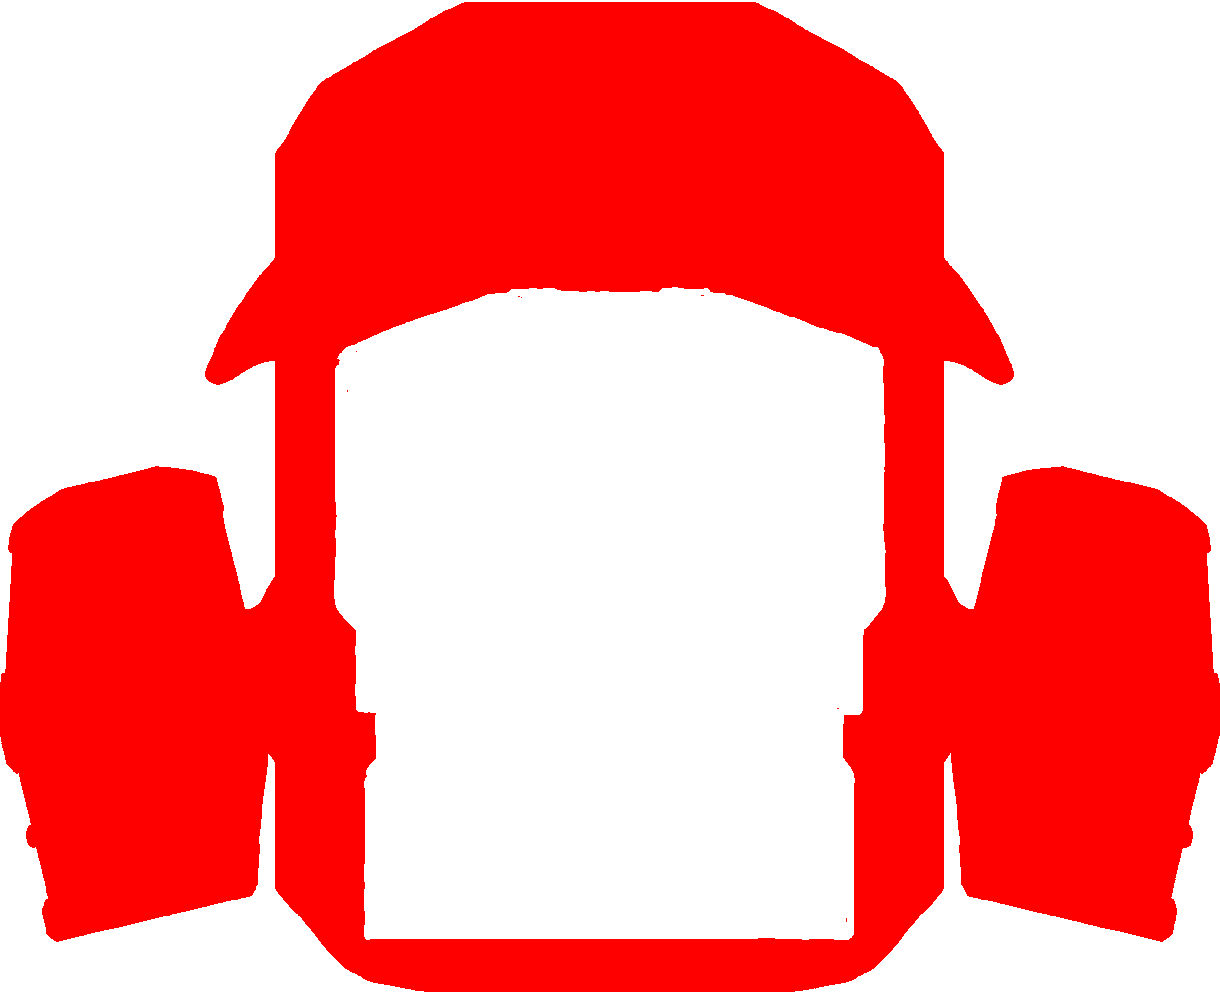
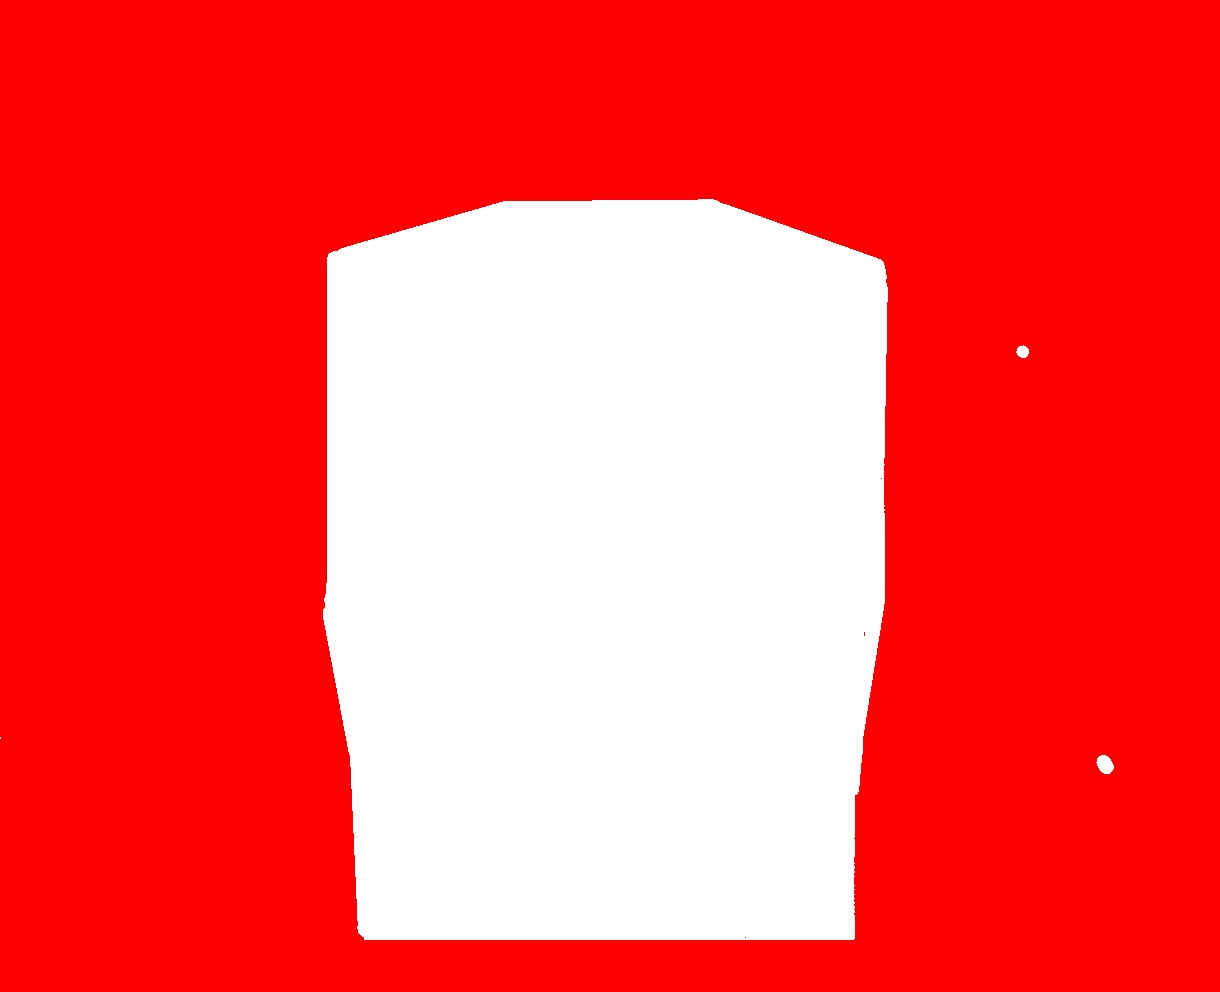
collisionmask split

diff --git a/src/main/java/team5/amongus/components/Lobby.tsx b/src/main/java/team5/amongus/components/Lobby.tsx
@@ -3,7 +3,7 @@ import Player from './interfaces/Player';
 import PlayerSprite from './PlayerSprite';
 import Space from './Space';
 import styles from '../../amongus/lobby.module.css';
-import LobbyBG_withTransparentGround from '../../../../resources/LobbyBG_withTransparentGround.png';
+import LobbyBG_withTransparentGround from '../../../../resources/LobbyBG_borders.png';
 import DebugCollisionMask from '../../../../resources/debug_collision_mask.png'; // Path to your debug collision mask image
 
 interface Props {

diff --git a/src/main/java/team5/amongus/model/CollisionMask.java b/src/main/java/team5/amongus/model/CollisionMask.java
@@ -1,93 +1,45 @@
 package team5.amongus.model;
 
-import javax.imageio.ImageIO;
 import java.awt.*;
 import java.awt.image.BufferedImage;
-import java.io.IOException;
-import java.io.InputStream;
-import java.net.URL;
 
 public class CollisionMask {
-    private boolean[][] mask;
-    private int imageWidth;
-    private int imageHeight;
+    private final boolean[][] mask;
+    private final int imageWidth;
+    private final int imageHeight;
 
-    public CollisionMask(String imageUrl) {
-        loadImage(imageUrl);
-    }
-
-    public CollisionMask(int width, int height, byte[] mask) {
+    public CollisionMask(int width, int height, boolean[][] mask) {
         this.imageWidth = width;
         this.imageHeight = height;
-        this.mask = new boolean[height][width];
-        System.out.println("CollisionMask length " + mask.length);
-
-        for (int i = 0; i < mask.length; i++) {
-            int x = i % width;
-            int y = i / width;
-            this.mask[y][x] = mask[i] == 1;
-        }
+        this.mask = mask;
     }
 
-    public boolean getCollidesWithBorder(int x, int y){
-        if(mask[x][y]){
-            return true;
-        } else{
-            return false;
-        }
-    }
-
-    private void loadImage(String imageUrl) {
-        try {
-            BufferedImage image = ImageIO.read(new URL(imageUrl));
-            imageWidth = image.getWidth();
-            imageHeight = image.getHeight();
-            mask = createCollisionMask(image);
-        } catch (IOException e) {
-            e.printStackTrace();
-        }
-    }
-
-    private boolean[][] createCollisionMask(BufferedImage image) {
-        int width = image.getWidth();
-        int height = image.getHeight();
-        boolean[][] mask = new boolean[height][width];
-    
-        for (int y = 0; y < height; y++) {
-            for (int x = 0; x < width; x++) {
-                int alpha = (image.getRGB(x, y) >> 24) & 0xFF;
-                mask[y][x] = alpha > 5; // Store true if pixel is solid, false otherwise
-            }
-        }
-    
-        return mask;
-    }
-    
-
-    public boolean collidesWith(int playerX, int playerY, int playerWidth, int playerHeight) {
-        if (mask == null || playerX < 0 || playerY < 0 || playerX >= imageWidth || playerY >= imageHeight) {
+    public boolean getCollidesWithBorder(int x, int y) {
+        if (x < 0 || y < 0 || x >= imageWidth || y >= imageHeight) {
             return true; // Consider out of bounds as collision
         }
+        return mask[y][x];
+    }
 
-        // Calculate the range of pixels that the player's bounding box covers in the collision mask
-        int startX = Math.max(0, playerX);
-        int endX = Math.min(imageWidth, playerX + playerWidth);
-        int startY = Math.max(0, playerY);
-        int endY = Math.min(imageHeight, playerY + playerHeight);
+    public boolean collidesWith(int playerX, int playerY, int playerWidth, int playerHeight) {
+        int startX = playerX + 30;
+        int endX = playerX + playerWidth - 20;
+        int startY = playerY;
+        int endY = playerY + playerHeight;
 
-        // Check each pixel in the player's bounding box against the collision mask
         for (int row = startY; row < endY; row++) {
             for (int col = startX; col < endX; col++) {
                 if (mask[row][col]) {
+                    System.out.println("[CollisionMask] collision detected: row: " + row + " col: " + col + " " + mask[row][col]);
                     return true; // Collision detected
                 }
             }
         }
 
+        System.out.println("[CollisionMask] NO collision detected");
         return false; // No collision detected
     }
 
-    // Getters for imageWidth and imageHeight
     public int getImageWidth() {
         return imageWidth;
     }
@@ -96,7 +48,6 @@ public class CollisionMask {
         return imageHeight;
     }
 
-    // Method to create a debug image
     public BufferedImage createDebugImage() {
         BufferedImage debugImage = new BufferedImage(imageWidth, imageHeight, BufferedImage.TYPE_INT_ARGB);
         for (int y = 0; y < imageHeight; y++) {

diff --git a/src/main/java/team5/amongus/service/PlayerService.java b/src/main/java/team5/amongus/service/PlayerService.java
@@ -19,13 +19,11 @@ public class PlayerService implements IPlayerService {
         try {
             final ObjectMapper objectMapper = new ObjectMapper();
 
-            // Parse the JSON payload into a PlayerMoveRequest object
             PlayerMoveRequest moveRequest = objectMapper.readValue(payload, PlayerMoveRequest.class);
 
             String playerName = moveRequest.getPlayerName();
             List<String> directions = moveRequest.getDirections();
 
-            // Rest of your existing logic...
             if (playerName == null || playerName.isEmpty() || directions == null) {
                 return playersMap; // Ignore move requests without player name or directions
             }
@@ -35,30 +33,23 @@ public class PlayerService implements IPlayerService {
                 return playersMap; // Player not found
             }
 
-            // Update the player's position for each direction
             if (directions.isEmpty()) {
-                // If there are no directions, set isMoving to false
                 existingPlayer.setIsMoving(false);
             } else {
-                // If there are directions, handle the movement
                 for (String directionStr : directions) {
                     Position.Direction direction = Position.Direction.valueOf(directionStr.toUpperCase());
-                    // Check if the next position will collide with the collision mask
                     if (!collidesWithMask(existingPlayer, direction, collisionMask)) {
-                        System.out.println("doesn't collide with mask");
+                        System.out.println("[PlayerService] doesn't collide with mask");
                         existingPlayer.handleMovementRequest(direction);
+                        existingPlayer.setIsMoving(true);
                     }
                 }
-                existingPlayer.setIsMoving(true);
             }
             playersMap.put(playerName, existingPlayer);
 
-            // Calculate canKill and canInteract for each player
             for (Player player : playersMap.values()) {
-
                 boolean canInteract = false;
 
-                // Check collision with other players
                 for (Player otherPlayer : playersMap.values()) {
                     if (!player.getName().equals(otherPlayer.getName())) {
                         if (player.collidesWith(otherPlayer)) {
@@ -76,11 +67,6 @@ public class PlayerService implements IPlayerService {
                 player.setCanInteract(canInteract);
             }
 
-            // Calculate new player positions and update the map
-            Position newPosition = existingPlayer.getPosition();
-
-            System.out.println("Updated position for player " + playerName + ": " + newPosition.toString());
-
         } catch (IOException e) {
             e.printStackTrace();
         }
@@ -91,19 +77,8 @@ public class PlayerService implements IPlayerService {
     private boolean collidesWithMask(Player player, Position.Direction direction, CollisionMask collisionMask) {
         Position nextPosition = player.getPosition().getNextPosition(direction, player.getStep());
 
-        // Get the dimensions of the mask
-        int maskWidth = collisionMask.getImageWidth();
-        int maskHeight = collisionMask.getImageHeight();
-        int x = nextPosition.getX();
-        int y = nextPosition.getY();
-
-        // Check if the position is out of bounds
-        if (x < 0 || x >= maskWidth || y < 0 || y >= maskHeight) {
-            System.out.println("Out of bounds");
-            return true; // Out of bounds, considered as collision
-        }
-
-        if(collisionMask.collidesWith(nextPosition.getX(), nextPosition.getY(), player.getWidth(), player.getHeight())){
+        if (collisionMask.collidesWith(nextPosition.getX(), nextPosition.getY(), player.getWidth(), player.getHeight())) {
+            System.out.println("[PlayerService] nextPosition: " + nextPosition.getX() + ", " + nextPosition.getY());
             return true;
         }
 

diff --git a/src/main/java/team5/amongus/websocket/WebSocketController.java b/src/main/java/team5/amongus/websocket/WebSocketController.java
@@ -14,6 +14,7 @@ import team5.amongus.model.Player;
 import team5.amongus.service.IChatService;
 import team5.amongus.service.IPlayerService;
 import team5.amongus.service.ITaskService;
+import team5.amongus.service.ICollisionMaskService;
 
 import java.io.IOException;
 import java.util.ArrayList;
@@ -32,15 +33,17 @@ public class WebSocketController {
     private final List<Message> chatMessages = new ArrayList<>();
     private final IPlayerService playerService;
     private final ITaskService taskService;
-    private final CollisionMask collisionMask;
+    private final ICollisionMaskService collisionMaskService;
+    private CollisionMask collisionMask;
     private boolean gameStarted = false;
 
-    public WebSocketController(SimpMessagingTemplate messagingTemplate, IPlayerService playerService, ITaskService taskService, IChatService chatService, CollisionMask collisionMask) {
+    public WebSocketController(SimpMessagingTemplate messagingTemplate, IPlayerService playerService, ITaskService taskService, IChatService chatService, ICollisionMaskService collisionMaskService) {
         this.playerService = playerService;
         this.taskService = taskService;
         this.messagingTemplate = messagingTemplate;
         this.chatService = chatService;
-        this.collisionMask = collisionMask;
+        this.collisionMaskService = collisionMaskService;
+        this.collisionMask = this.collisionMaskService.loadCollisionMask("/LobbyBG_borders.png");
     }
 
     public void removePlayer(String playerName) {
@@ -128,6 +131,8 @@ public class WebSocketController {
 
         // Clear the players from the lobby
         inGamePlayersMap.clear();
+        //TODO load new mask
+        //collisionMask = collisionMaskService.loadCollisionMask(null);
 
         // Logging to check spaceShipPlayersMap contents
         System.out.println("Space ship players count: " + playersMap.size());

diff --git a/src/main/java/team5/amongus/service/CollisionMaskService.java b/src/main/java/team5/amongus/service/CollisionMaskService.java
@@ -1,0 +1,50 @@
+package team5.amongus.service;
+
+import team5.amongus.model.CollisionMask;
+
+import javax.imageio.ImageIO;
+import java.awt.image.BufferedImage;
+import java.io.IOException;
+import java.io.InputStream;
+
+public class CollisionMaskService implements ICollisionMaskService {
+
+    @Override
+    public CollisionMask loadCollisionMask(String imagePath) {
+        try (InputStream imageStream = getClass().getResourceAsStream(imagePath)) {
+            if (imageStream == null) {
+                throw new IOException("Resource not found: " + imagePath);
+            }
+            BufferedImage image = ImageIO.read(imageStream);
+            int imageWidth = image.getWidth();
+            int imageHeight = image.getHeight();
+            boolean[][] mask = createMaskFromImage(image, imageWidth, imageHeight);
+            return new CollisionMask(imageWidth, imageHeight, mask);
+        } catch (IOException e) {
+            e.printStackTrace();
+            return null;
+        }
+    }
+
+    @Override
+    public CollisionMask createCollisionMask(int width, int height, byte[] maskData) {
+        boolean[][] mask = new boolean[height][width];
+        for (int i = 0; i < maskData.length; i++) {
+            int x = i % width;
+            int y = i / width;
+            mask[y][x] = maskData[i] == 1;
+        }
+        return new CollisionMask(width, height, mask);
+    }
+
+    private boolean[][] createMaskFromImage(BufferedImage image, int width, int height) {
+        boolean[][] mask = new boolean[height][width];
+        for (int y = 0; y < height; y++) {
+            for (int x = 0; x < width; x++) {
+                int alpha = (image.getRGB(x, y) >> 24) & 0xFF;
+                mask[y][x] = alpha > 5; // Store true if pixel is solid, false otherwise
+            }
+        }
+        return mask;
+    }
+}

diff --git a/src/main/java/team5/amongus/AmongusApplication.java b/src/main/java/team5/amongus/AmongusApplication.java
@@ -2,8 +2,12 @@ package team5.amongus;
 
 import org.springframework.boot.SpringApplication;
 import org.springframework.boot.autoconfigure.SpringBootApplication;
+import org.springframework.context.annotation.Bean;
 import org.springframework.context.annotation.ComponentScan;
 import org.springframework.scheduling.annotation.EnableScheduling;
+
+import team5.amongus.service.CollisionMaskService;
+import team5.amongus.service.ICollisionMaskService;
 
 @SpringBootApplication
 @EnableScheduling
@@ -13,4 +17,9 @@ public class AmongusApplication {
 	public static void main(String[] args) {
 		SpringApplication.run(AmongusApplication.class, args);
 	}
+
+	@Bean
+    public ICollisionMaskService collisionMaskService() {
+        return new CollisionMaskService();
+    }
 }

diff --git a/src/main/java/team5/amongus/model/Player.java b/src/main/java/team5/amongus/model/Player.java
@@ -8,8 +8,8 @@ public class Player implements Serializable {
     private Integer step = 30;
     private Boolean isMoving = false ; 
     private String facing = "RIGHT";
-    private int width = 100;
-    private int height = 150;
+    private int width = 130;
+    private int height = 130;
     private boolean canInteract = false;
     private boolean canKill = false;
     private long lastActivityTime;

diff --git a/src/main/java/team5/amongus/service/ICollisionMaskService.java b/src/main/java/team5/amongus/service/ICollisionMaskService.java
@@ -1,0 +1,8 @@
+package team5.amongus.service;
+
+import team5.amongus.model.CollisionMask;
+
+public interface ICollisionMaskService {
+    CollisionMask loadCollisionMask(String imageUrl);
+    CollisionMask createCollisionMask(int width, int height, byte[] mask);
+}
